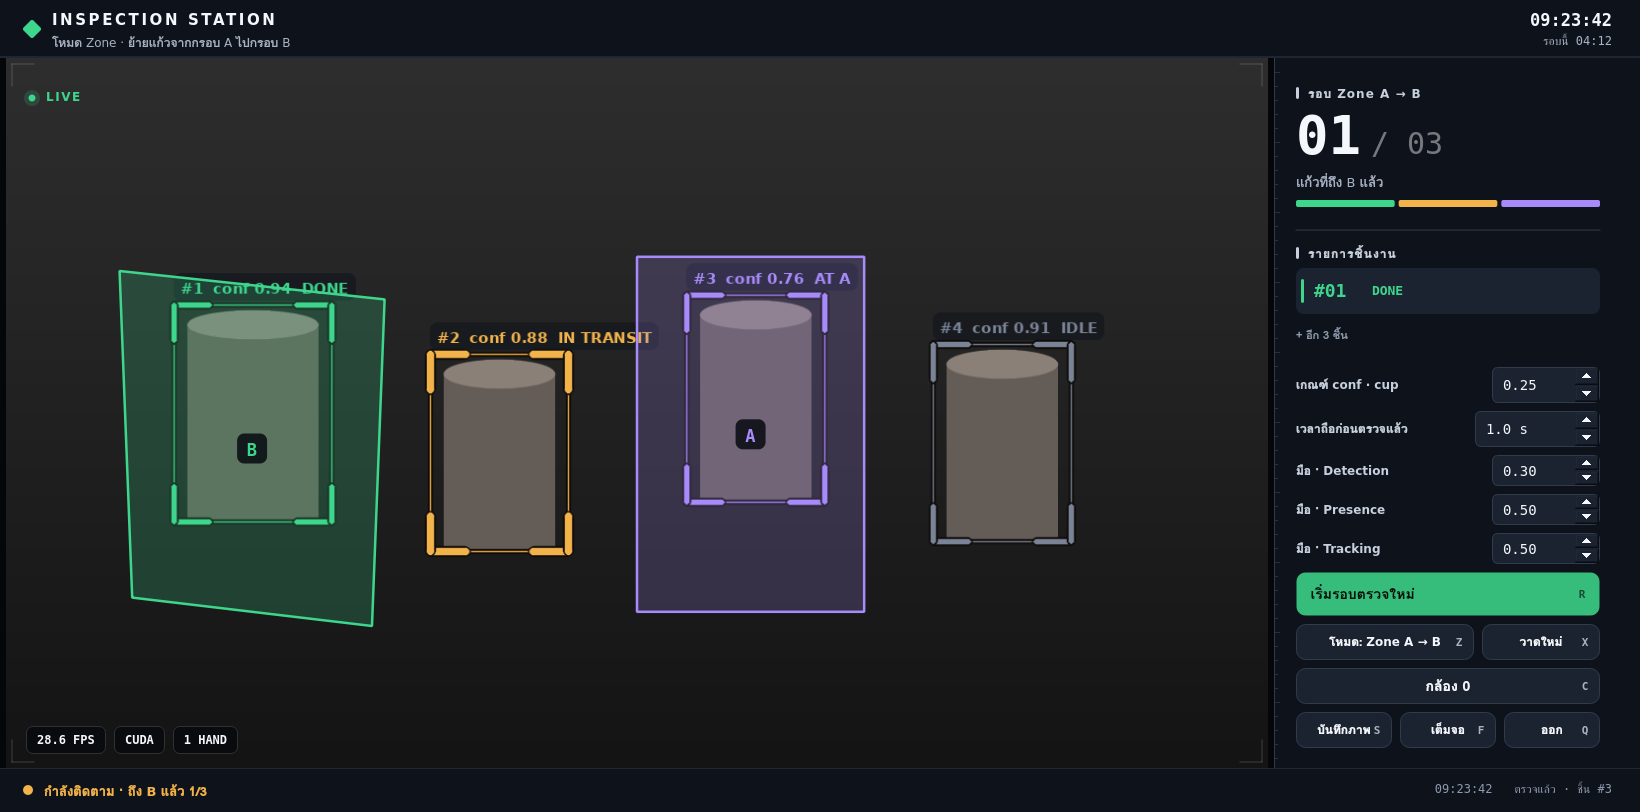
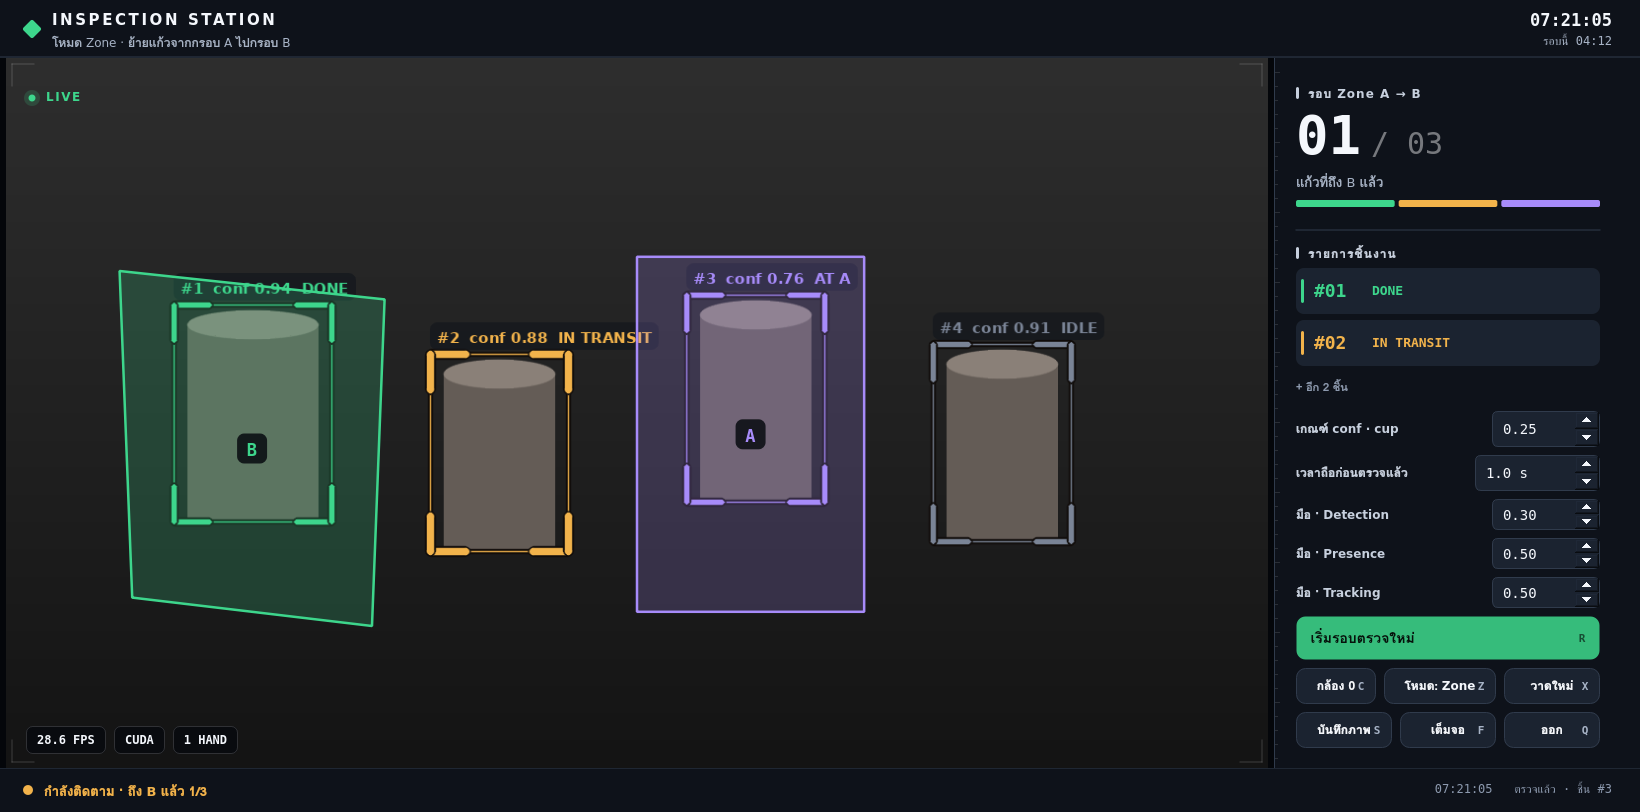
app: put the mode button on the camera row so the item list keeps its height
The extra button row cut the Rack from 353 to 309 px at the default window
size, hiding list rows (a single cup showed only '+ 1 more'). Camera, mode
and redraw now share one row; Rack height matches main in both modes.
Refresh the two screenshots.

diff --git a/app/app.py b/app/app.py
@@ -521,7 +521,7 @@ class Station(QWidget):
         self.cam_btn = Button("เลือกกล้อง", "C")
         self.cam_btn.clicked.connect(self.pick_camera)
         self.mode = "inspect"                       # inspect = เช็กลิสต์ตรวจแก้ว · zone = ย้ายแก้ว A → B
-        self.mode_btn = Button("โหมด: ตรวจแก้ว", "Z")
+        self.mode_btn = Button("โหมด: ตรวจ", "Z")
         self.mode_btn.clicked.connect(self.toggle_mode)
         self.redraw_btn = Button("วาดใหม่", "X")
         self.redraw_btn.clicked.connect(self.start_drawing)
@@ -607,12 +607,12 @@ class Station(QWidget):
             keys.addLayout(row)
             self.hand_conf_inputs[key] = spin
         keys.addWidget(new_round)
-        zone_row = QHBoxLayout()                    # ปุ่มวาดใหม่โผล่เฉพาะโหมด zone — แถวเดียวกับปุ่มโหมด ไม่กินที่เพิ่ม
-        zone_row.setSpacing(8)
-        zone_row.addWidget(self.mode_btn, 3)
-        zone_row.addWidget(self.redraw_btn, 2)
-        keys.addLayout(zone_row)
-        keys.addWidget(self.cam_btn)
+        cam_row = QHBoxLayout()                     # กล้อง · โหมด (· วาดใหม่ เฉพาะโหมด zone) อยู่แถวเดียว —
+        cam_row.setSpacing(8)                       # แถวใหม่จะกิน 44px จากรายการชิ้นงาน (Rack) จนแถวหาย
+        cam_row.addWidget(self.cam_btn, 5)
+        cam_row.addWidget(self.mode_btn, 7)
+        cam_row.addWidget(self.redraw_btn, 6)
+        keys.addLayout(cam_row)
         strip = QHBoxLayout()
         strip.setSpacing(8)
         for label, hint, fn in (("บันทึกภาพ", "S", self.shot), ("เต็มจอ", "F", self.fullscreen),
@@ -677,7 +677,7 @@ class Station(QWidget):
     def toggle_mode(self):
         if self.mode == "inspect":
             self.mode = "zone"
-            self.mode_btn.set_label("โหมด: Zone A → B")
+            self.mode_btn.set_label("โหมด: Zone")
             self.redraw_btn.show()
             self.an.set_mode("zone")
             if not all(self.view.zones.values()):
@@ -685,7 +685,7 @@ class Station(QWidget):
         else:
             self.mode = "inspect"
             self.view.stage, self.view.pts = None, []
-            self.mode_btn.set_label("โหมด: ตรวจแก้ว")
+            self.mode_btn.set_label("โหมด: ตรวจ")
             self.redraw_btn.hide()
             self.an.set_mode("inspect")
 
